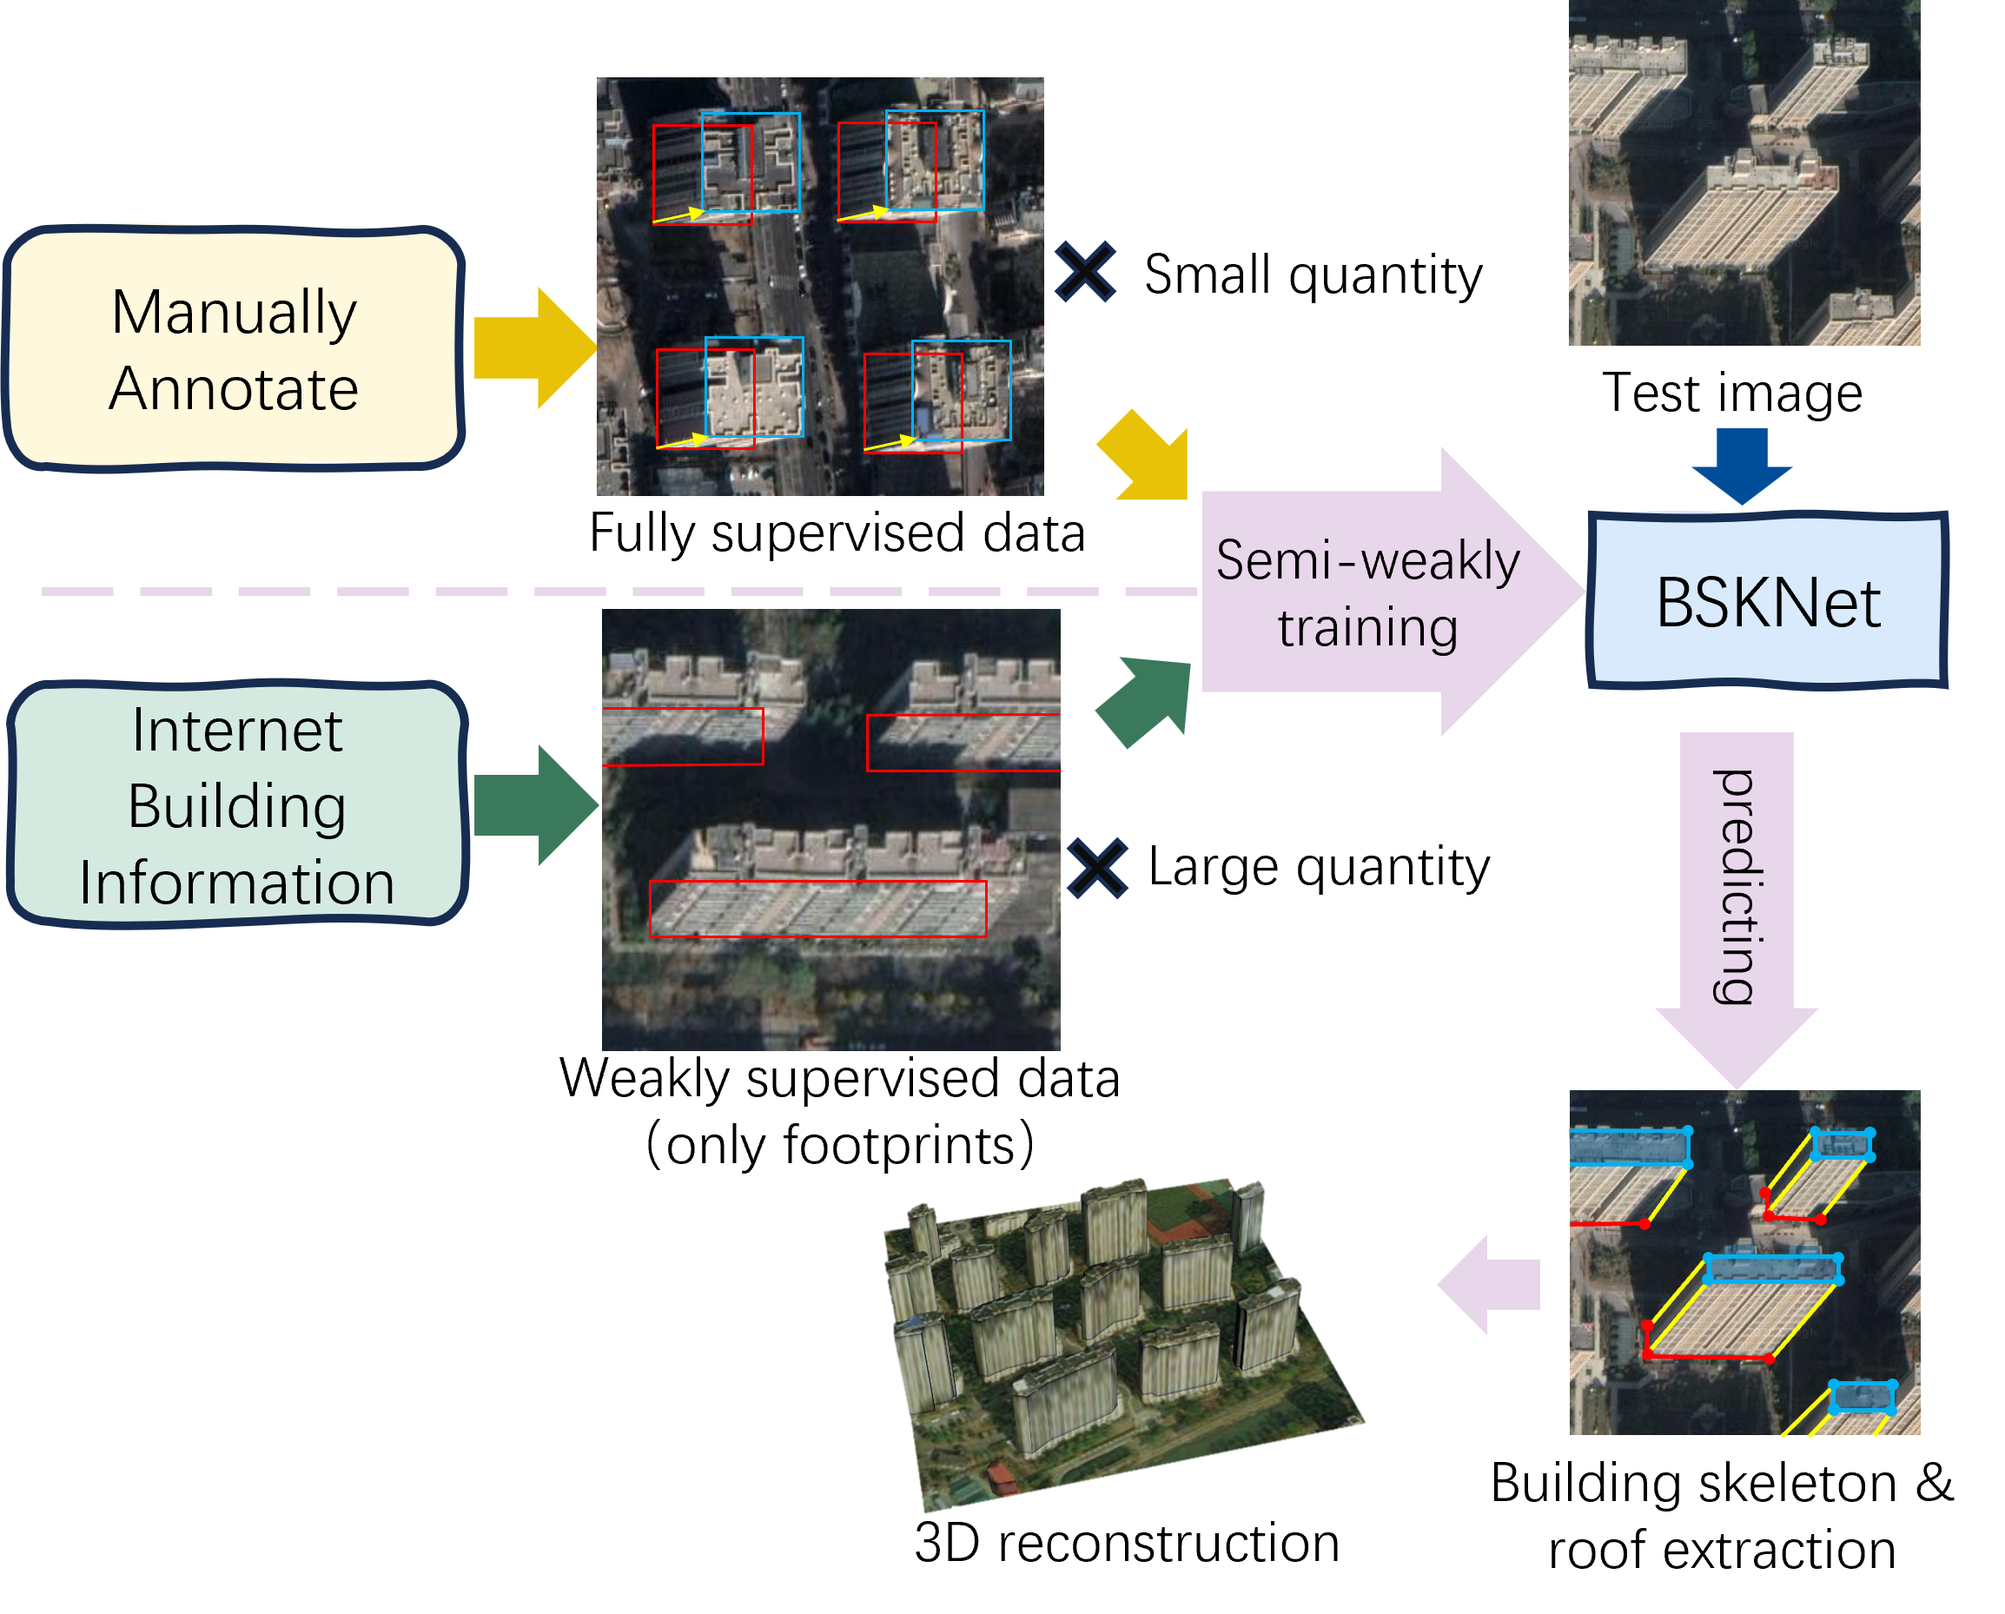
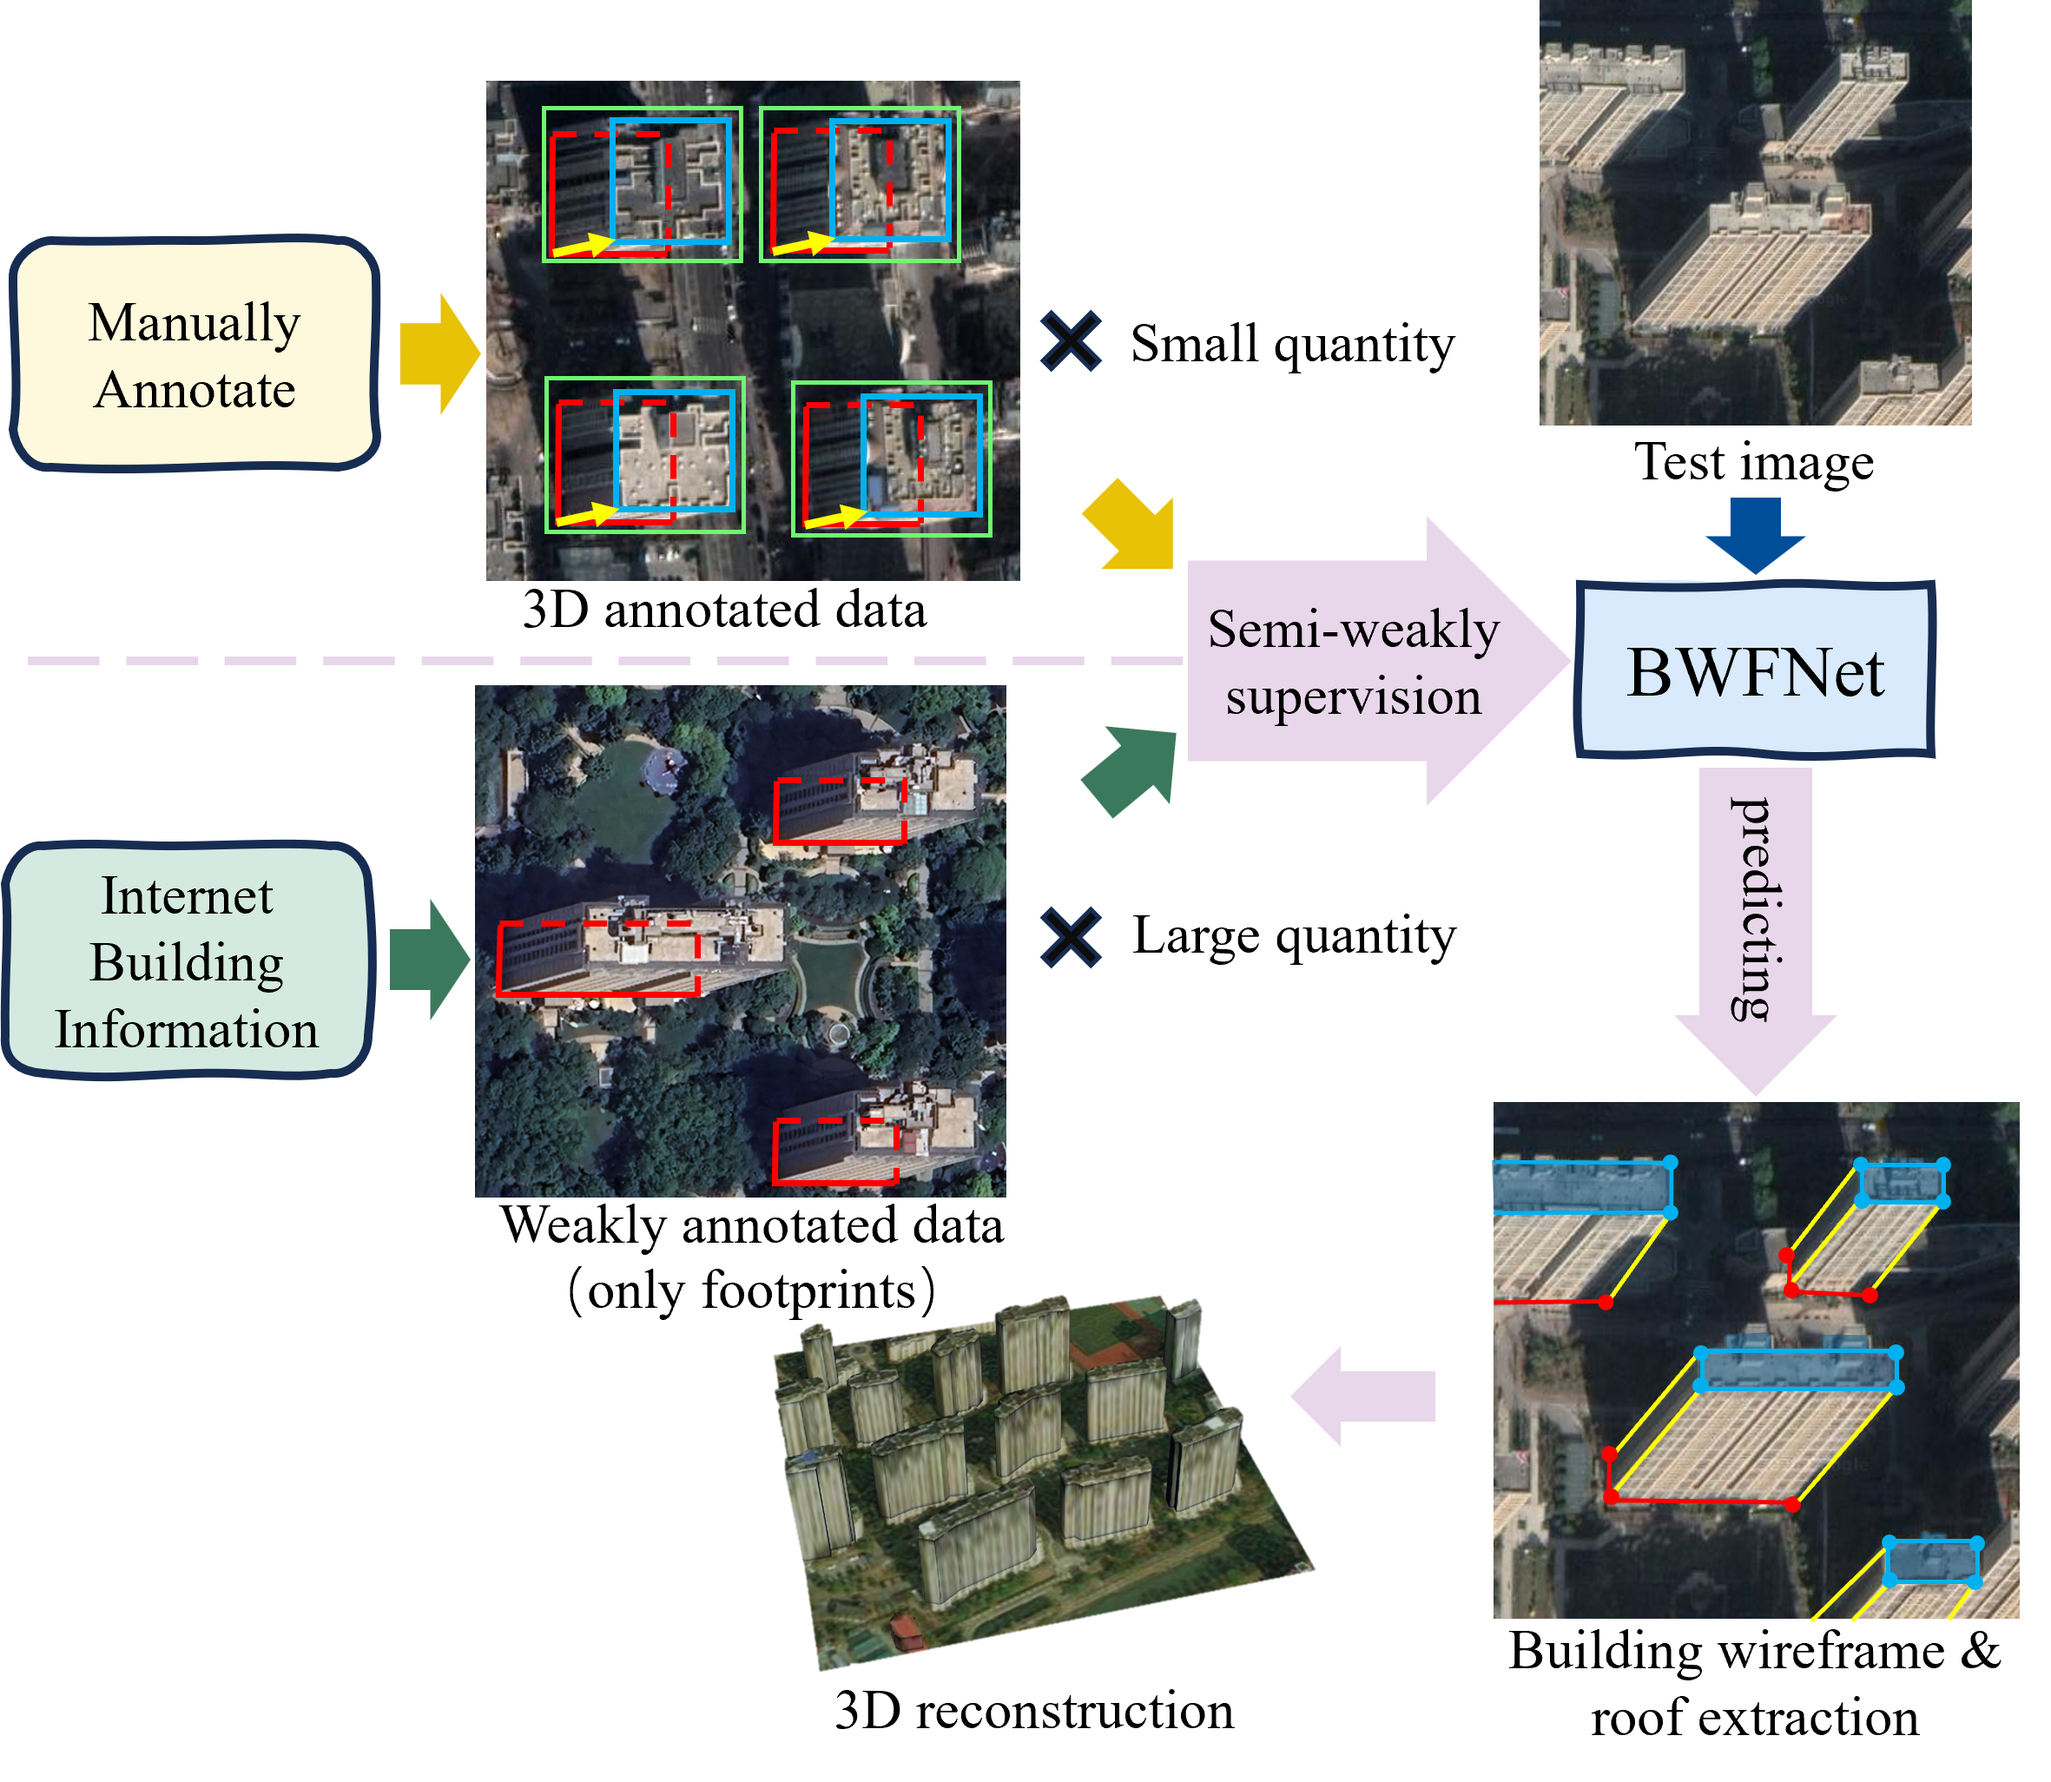
update

diff --git a/index.html b/index.html
@@ -27,37 +27,30 @@
 
 <body>
     <div style="margin:auto;max-width: 666px;text-align:justify">
-                    <h1 style="text-align: center;">BSKNet: 3D Building Reconstruction from Single Off-Nadir Remote
+                    <h1 style="text-align: center;">BWFNet: 3D Building Reconstruction from Single Off-Nadir Remote
 Sensing Image with Semi-Weak Supervisions</h1>
-                    <h3 style="text-align: center;"><a href="BSKNet.pdf">Paper</a>&emsp;<a href="https://github.com/ShaoRuizhe/BSKNet">Code</a></h3>
+                    <h3 style="text-align: center;"><a href="BSKNet.pdf">Paper</a>&emsp;<a href="https://github.com/ShaoRuizhe/BWFNet">Code</a></h3>
                     <div style="text-align:center"><img style="width: 600px;" src="image1.png"></div>
                     <div style="margin:auto;max-width: 666px;text-align:justify">
-                        3D building reconstruction using monocular remote sensing imagery has
-                        emerged as a critical research frontier in geospatial AI, driven by its
-                        superior cost-effectiveness in terms of both in data acquisition and
-                        processing time. However, the reliance of existing deep learning
-                        methodologies on a large number of manually annotated labels poses a
-                        significant barrier to their practical application. Although recent
-                        studies have contributed to reducing label dependency, a considerable
-                        amount of annotation effort is still required to establish baseline
-                        reconstruction credibility. To address this challenge, we propose a
-                        BuildingSKeletonNetwork (BSKNet) for 3D building reconstruction under
-                        semi-weak supervisions combining limited full 3D annotations with
-                        abundant building-footprint-only labels. BSKNet innovatively designs and
-                        employs a skeletal representation of buildings, which <strong>implicitly
-                        encapsulates knowledge from two dimensions: building structural
-                        knowledge and corner local information</strong>, while providing ample data for
-                        3D reconstruction. We designed BSKNet to learn the capability of
-                        building skeleton extraction from these two knowledge dimensions. Under
-                        weak supervision, the knowledge acquired from these two dimensions is
-                        synergistically enhanced via <strong>mutual complementation and
-                        cross-validation.</strong> Additionally, we propose a self-supervised training
-                        method based on consistency constraints to further
-                        improve the effect of weakly supervised training. The experimental
-                        results demonstrate that the proposed BSKNet achieves excellent
-                        reconstruction performance by utilizing only 3% fully annotated data
-                        combined with weakly supervised samples. This performance represents a
-                        significant improvement compared to current state-of-the-art methods.
+                        Rapid 3D building reconstruction in urban-scale areas has emerged as a pivotal technology for
+                        smart city applications. Recent methods that reconstruct buildings from single off-nadir imagery
+                        have gained attention due to their efficiency in both time and data costs. However, the training
+                        of these methods relies on large-scale, costly 3D annotations, including building bounding
+                        boxes, roofs, footprints, and roof-to-footprint offsets, and thus cannot be trained when only
+                        the footprint is available, despite the fact that a large amount of building footprints can be
+                        easily obtained in crowdsourced building data set form the Internet. To address this, we propose
+                        a semi-weakly supervised learning method that leverages massive weakly annotated data
+                        (footprints) and a limited number of manually annotated 3D building labels to learn to
+                        reconstruct 3D buildings. In our method, we introduce an ingenious wireframe representation to
+                        replace conventional bounding-box representation, thereby providing a foundation for semi-weakly
+                        supervised learning. Based on this representation, we propose BWFNet for extracting building
+                        wireframes. BWFNet enhances accuracy under semi-weakly supervision by modeling both structural
+                        and local knowledge. Furthermore, we propose a training strategy for building wireframe
+                        extraction grounded in the principle of geometric consistency constraints to further improve
+                        weakly supervised performance. The experimental results demonstrate that the proposed BWFNet
+                        achieves excellent reconstruction performance by utilizing only 3% fully annotated data combined
+                        with weakly supervised samples. This performance represents a significant improvement compared
+                        to current state-of-the-art methods.
                     </div>
 
 
